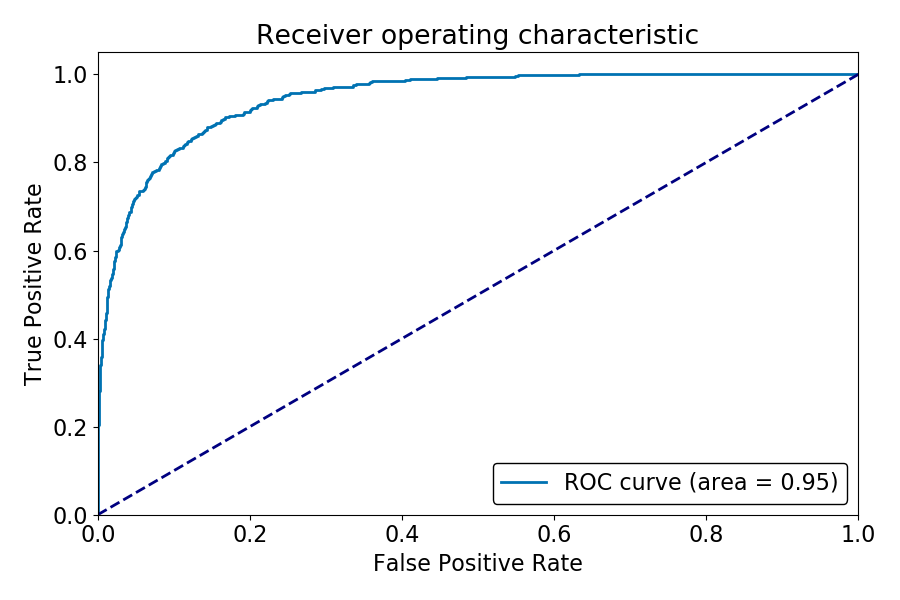
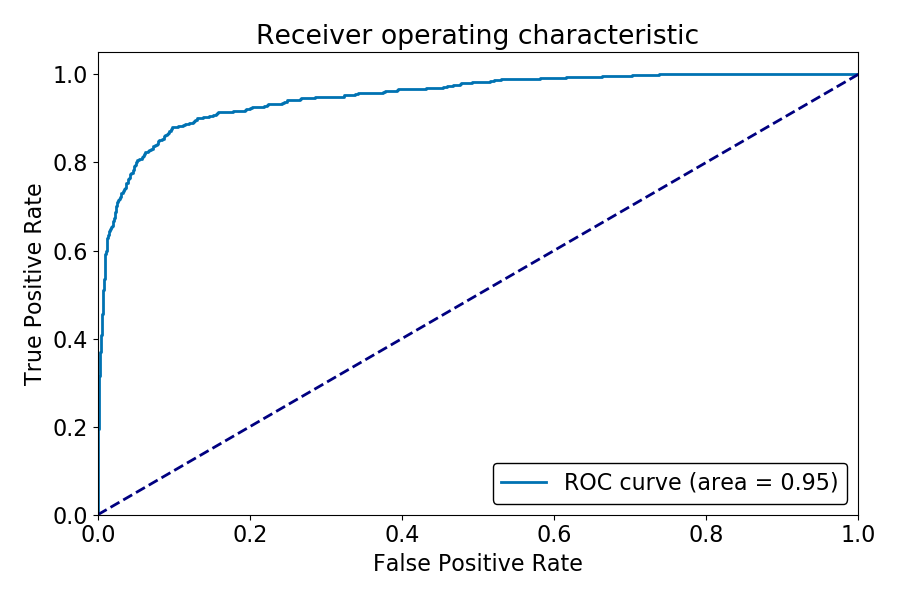
ran 2 rounds of efficient net training

Changed region(s): [[0.0933, 0.18, 0.28, 0.6], [0.28, 0.12, 0.7467, 0.18]]

diff --git a/Notebooks/TrainEfficientNet.py b/Notebooks/TrainEfficientNet.py
@@ -320,7 +320,7 @@ valid_loader = torch.utils.data.DataLoader(dataset=valid_dataset)
 
 # save losses from training
 num_epochs = 50
-batchsize  = 42
+batchsize  = 60
 
 train_roc = []
 val_roc   = []
